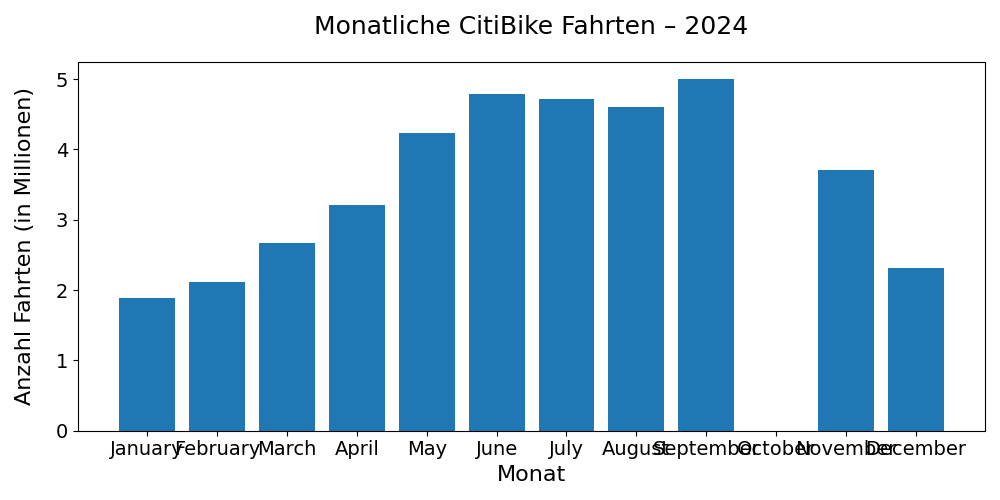
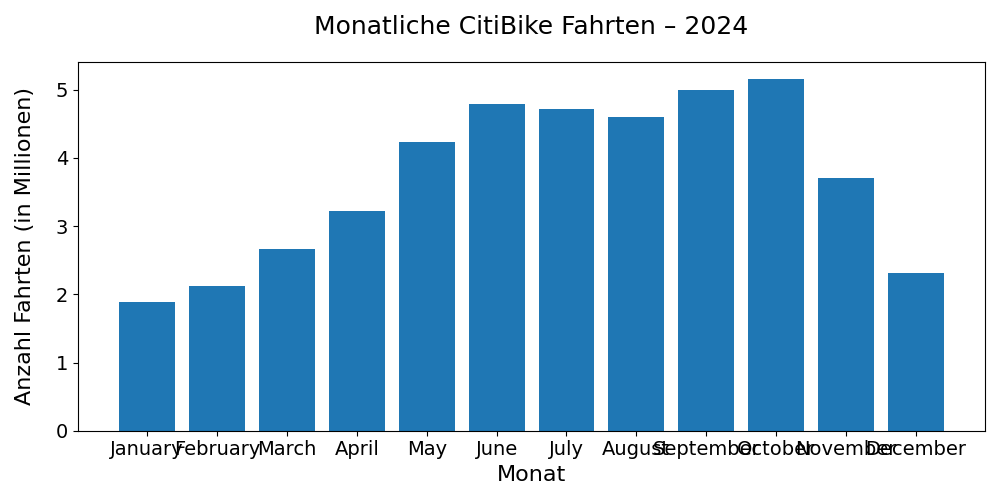
Rotate Plot Labels in Rides per Month Figure

diff --git a/02_analysis/descriptive_statistics_rides.py b/02_analysis/descriptive_statistics_rides.py
@@ -32,7 +32,7 @@ print(temp)
 temp = pd.read_sql("SELECT COUNT(*) AS total_rows FROM trips", con=engine)
 print(temp)
 
-#%% Rides per month
+#%% Rides per month & Plot
 query = """
 SELECT 
     DATE_TRUNC('month', started_at::timestamp) AS month,
@@ -45,6 +45,7 @@ ORDER BY month;
 
 temp = pd.read_sql(query, engine)
 print(temp)
+
 # Plot: Rides per Month
 temp['month_label'] = temp['month'].dt.strftime('%B')  # e.g., "January"
 temp['num_rides_millions'] = temp['num_rides'] / 1_000_000
@@ -57,7 +58,8 @@ plt.xlabel("Monat", fontsize=16)
 plt.ylabel("Anzahl Fahrten (in Millionen)", fontsize=16, labelpad=15)
 plt.title("Monatliche CitiBike Fahrten – 2024", fontsize=18, pad=20)
 
-plt.xticks(fontsize=14)
+# Rotate x-axis labels for readability
+plt.xticks(rotation=45, fontsize=14, ha='right')
 plt.yticks(fontsize=14)
 
 plt.tight_layout()
